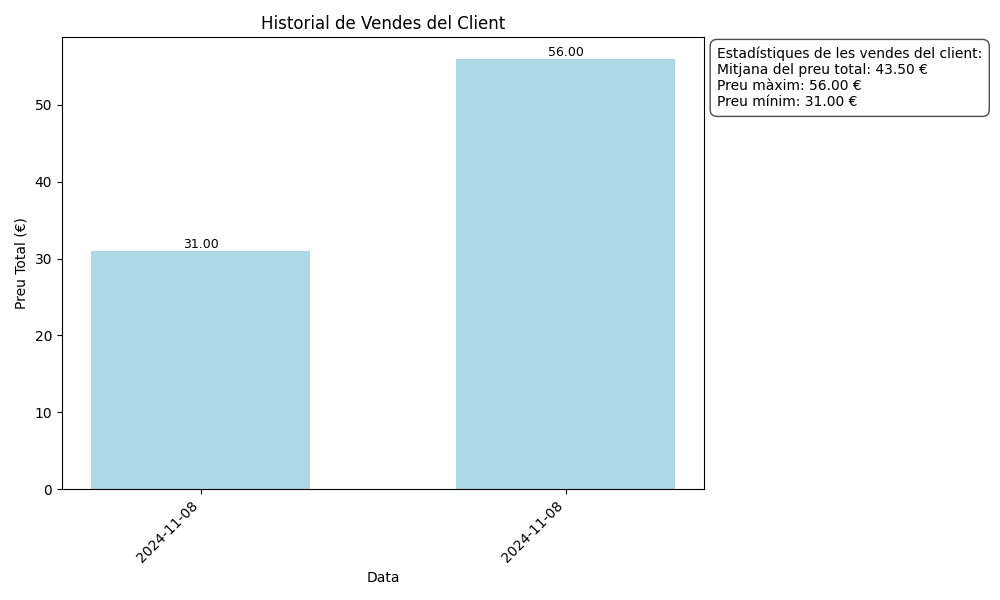
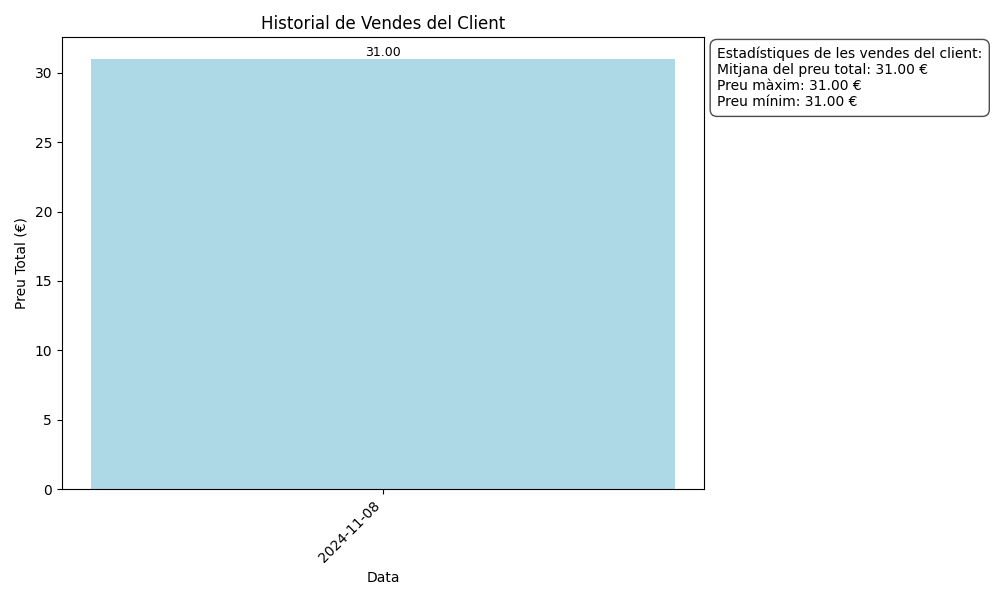
estadistiques clients node

diff --git a/Back/index.js b/Back/index.js
@@ -15,6 +15,7 @@ app.use(express.json());
 app.use(cors());
 
 app.use('/uploads/images', express.static(path.join(__dirname, 'uploads/images')));
+app.use('/grafiques', express.static(path.join(__dirname, 'grafiques')));
 const server = http.createServer(app);
 const io = socketIo(server, {
     cors: {
@@ -536,7 +537,8 @@ app.put('/putEstatBD/:id', async (req, res) => {
     }
 });
 
-app.get('/stadistics-clients', async (req, res) => {
+
+app.get('/estadistiques-clients', async (req, res) => {
     const connection = await createConnection();
 
     try {
@@ -550,7 +552,40 @@ app.get('/stadistics-clients', async (req, res) => {
             GROUP BY u.Nom;
         `);
 
-        res.json(rows);
+        console.log("rows", rows);
+
+        const rowsJson = JSON.stringify(rows);
+
+
+        // Guardar los datos en un archivo temporal
+        const tempFilePath = path.join(__dirname, 'python', 'temp_dataClients.json');
+        require('fs').writeFileSync(tempFilePath, rowsJson);
+
+        // Llamar al script de Python usando spawn y enviar la ruta del archivo temporal como argumento
+        const scriptPath = path.join(__dirname, 'python', 'pruebaClients.py');
+        const pythonProcess = spawn('python3', [scriptPath, tempFilePath]);
+
+        let pythonOutput = '';
+
+        pythonProcess.stdout.on('data', (data) => {
+            pythonOutput += data.toString();
+        });
+
+        pythonProcess.stderr.on('data', (data) => {
+            console.error(`Error en el script de Python: ${data}`);
+        });
+
+        pythonProcess.on('close', (code) => {
+            if (code !== 0) {
+                return res.status(500).json({ message: "Error generando gráficos" });
+            }
+
+            const imagePath = pythonOutput.trim();
+            res.json({ success: true, imagePaths: [imagePath] });
+
+            // Eliminar el archivo temporal
+            require('fs').unlinkSync(tempFilePath);
+        });
     } catch (error) {
         console.error("Error al ejecutar la consulta:", error);
         res.status(500).json({ message: "No es va poder executar la consulta", error: error.message });
@@ -586,7 +621,7 @@ app.post('/estadistiques-client', async (req, res) => {
         const rowsJson = JSON.stringify(rows);
 
         // Guardar los datos en un archivo temporal
-        const tempFilePath = path.join(__dirname, 'python', 'temp_data.json');
+        const tempFilePath = path.join(__dirname, 'python', 'temp_dataClient.json');
         require('fs').writeFileSync(tempFilePath, rowsJson);
 
         // Llamar al script de Python usando spawn y enviar el correo como argumento
@@ -608,7 +643,9 @@ app.post('/estadistiques-client', async (req, res) => {
                 return res.status(500).json({ message: "Error generando gráficos" });
             }
 
-            const imagePath = pythonOutput.trim();
+            // Asegúrate de que pythonOutput sea la ruta completa de la imagen
+            const imagePath = path.join(pythonOutput.trim());
+            console.log("imagePath", imagePath);
             res.json({ success: true, imagePaths: [imagePath] });
         });
     } catch (error) {
@@ -618,6 +655,7 @@ app.post('/estadistiques-client', async (req, res) => {
         connection.end();
     }
 });
+
 
 
 // Iniciar el servidor

diff --git a/Web/vuetify-project/src/components/Estadistiques.vue b/Web/vuetify-project/src/components/Estadistiques.vue
@@ -1,15 +1,66 @@
 <template>
-<div>
+  <div>
     <h2>Estadísticas del Cliente</h2>
     <v-text-field
-        v-model="email"
-        label="Correu electrònic"
-        outlined
+      v-model="email"
+      label="Correu electrònic"
+      outlined
     ></v-text-field>
-    
-</div>
+
+    <v-btn @click="obtenerEstadisticas" :disabled="!email">
+      Ver Estadísticas
+    </v-btn>
+
+    <!-- Mostrar la imagen generada solo si está disponible -->
+    <div v-if="imagePath">
+      <h3>Estadísticas</h3>
+      <img :src="imagePath" alt="Estadísticas del cliente" />
+    </div>
+  </div>
 </template>
-<script>
+  
+  <script>
+import { ref } from "vue"; // Importa ref para declarar las variables reactivas
+import { estadisticasPython } from "../services/communicationManager"; // Ajusta la ruta de importación según tu estructura
+
+export default {
+  setup() {
+    // Variables reactivas con ref
+    const email = ref(""); // Variable para almacenar el correo
+    const imagePath = ref(null); // Variable para almacenar la ruta de la imagen generada
+
+    // Función para obtener las estadísticas
+    const obtenerEstadisticas = async () => {
+      try {
+        // Llamar a la función que envía el correo al servidor
+        const data = await estadisticasPython(email.value);
+
+        // Comprobar si la respuesta contiene la ruta de la imagen
+        if (data.success && data.imagePaths && data.imagePaths.length > 0) {
+          // Asignar la ruta de la imagen al estado
+          // Suponiendo que la ruta de la imagen se devuelve relativa al servidor
+          imagePath.value = `${import.meta.env.VITE_URL_BACK}${
+            data.imagePaths[0]
+          }`;
+        } else {
+          // Manejar el caso en que no se haya generado la imagen
+          console.error("No se generó la imagen de estadísticas.");
+        }
+      } catch (error) {
+        console.error("Error al obtener las estadísticas:", error);
+      }
+    };
+
+    return {
+      email,
+      imagePath,
+      obtenerEstadisticas,
+    };
+  },
+};
 </script>
-<style>
+  
+  <style scoped>
+/* Aquí puedes agregar tus estilos */
 </style>
+  

diff --git a/Back/python/clients.py b/Back/python/clients.py
@@ -5,7 +5,7 @@ import os # No eliminar
 
 # Definir la URL base de l'API
 # API_URL = "http://localhost:3010/statistics-clients"
-API_URL = "http://juicengo.dam.inspedralbes.cat:20871/statistics-clients"
+API_URL = "http://juicengo.dam.inspedralbes.cat:20871/estadistiques-clients"
 
 def obtenir_dades_estadistiques():
     """
@@ -79,12 +79,12 @@ def crear_imatge_dades_vendes(df_promedio):
         dibuixar.text((10, 10), text_complet, font=font, fill='black')
 
         # Crear la carpeta 'Grafiques' si no existeix
-        # if not os.path.exists('Grafiques'):
-        #    os.makedirs('Grafiques')
+        if not os.path.exists('grafiques'):
+           os.makedirs('grafiques')
         
         # Guardar la imatge
-        # imatge.save('Grafiques/dades_vendes_clients.png')
-        # print("Imatge guardada correctament a 'Grafiques/dades_vendes_clients.png'")
+        imatge.save('grafiques/dades_vendes_clients.png')
+        print("Imatge guardada correctament a 'grafiques/dades_vendes_clients.png'")
 
     except Exception as e:
         # Capturar qualsevol error en la creació de la imatge

diff --git a/Back/python/client.py b/Back/python/client.py
@@ -59,11 +59,11 @@ def crear_grafic_historial_vendes(df_comandes):
         plt.tight_layout()
 
         # Crear la carpeta 'Grafiques' si no existeix
-        if not os.path.exists('Grafiques'):
-            os.makedirs('Grafiques')
+        if not os.path.exists('grafiques'):
+            os.makedirs('grafiques')
 
         # Guardar el gràfic com a imatge a la carpeta 'Grafiques'
-        output_path = 'Grafiques/historial_vendes_del_client.png'
+        output_path = 'grafiques/historial_vendes_del_client.png'
         plt.savefig(output_path)  # Nom de la imatge
 
         # Mostrar el gràfic
